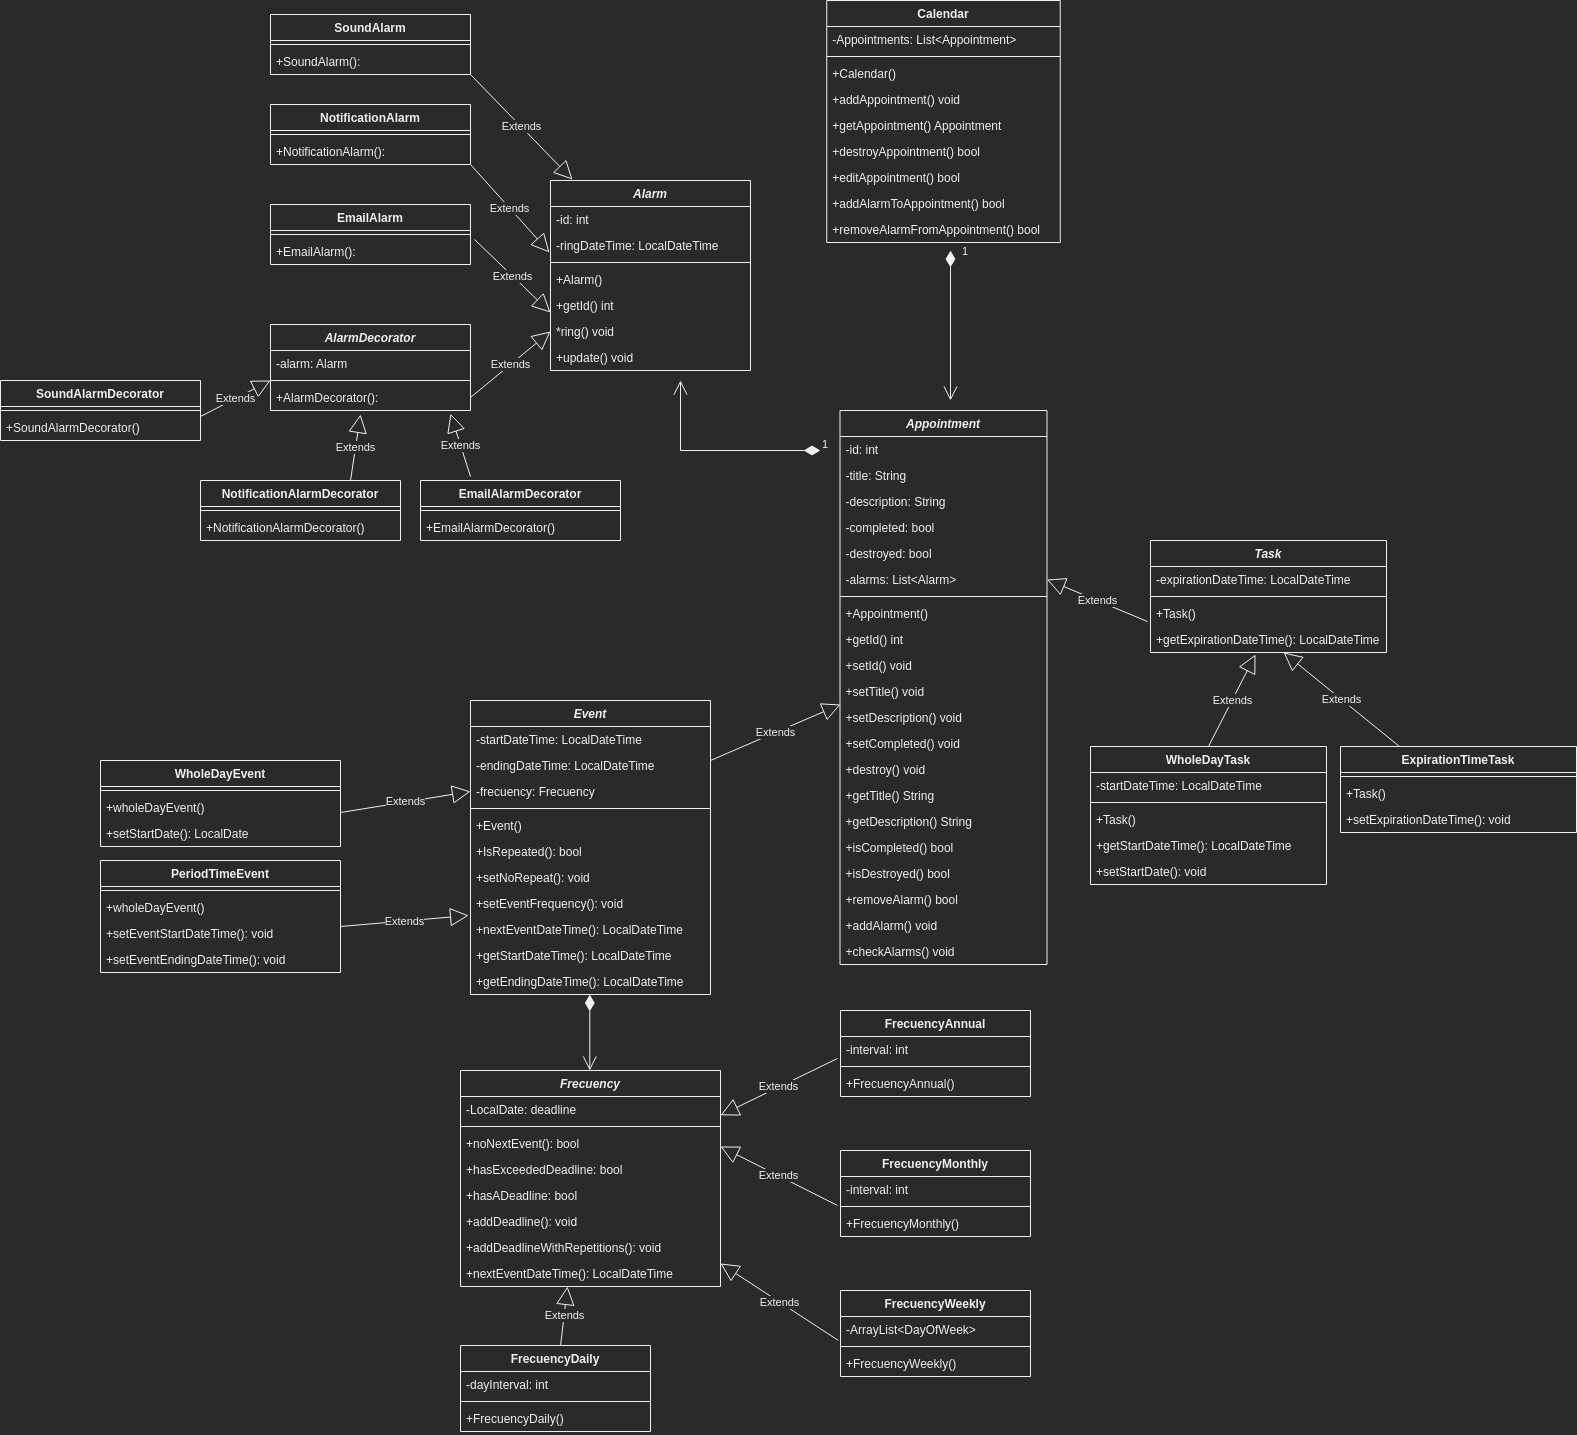
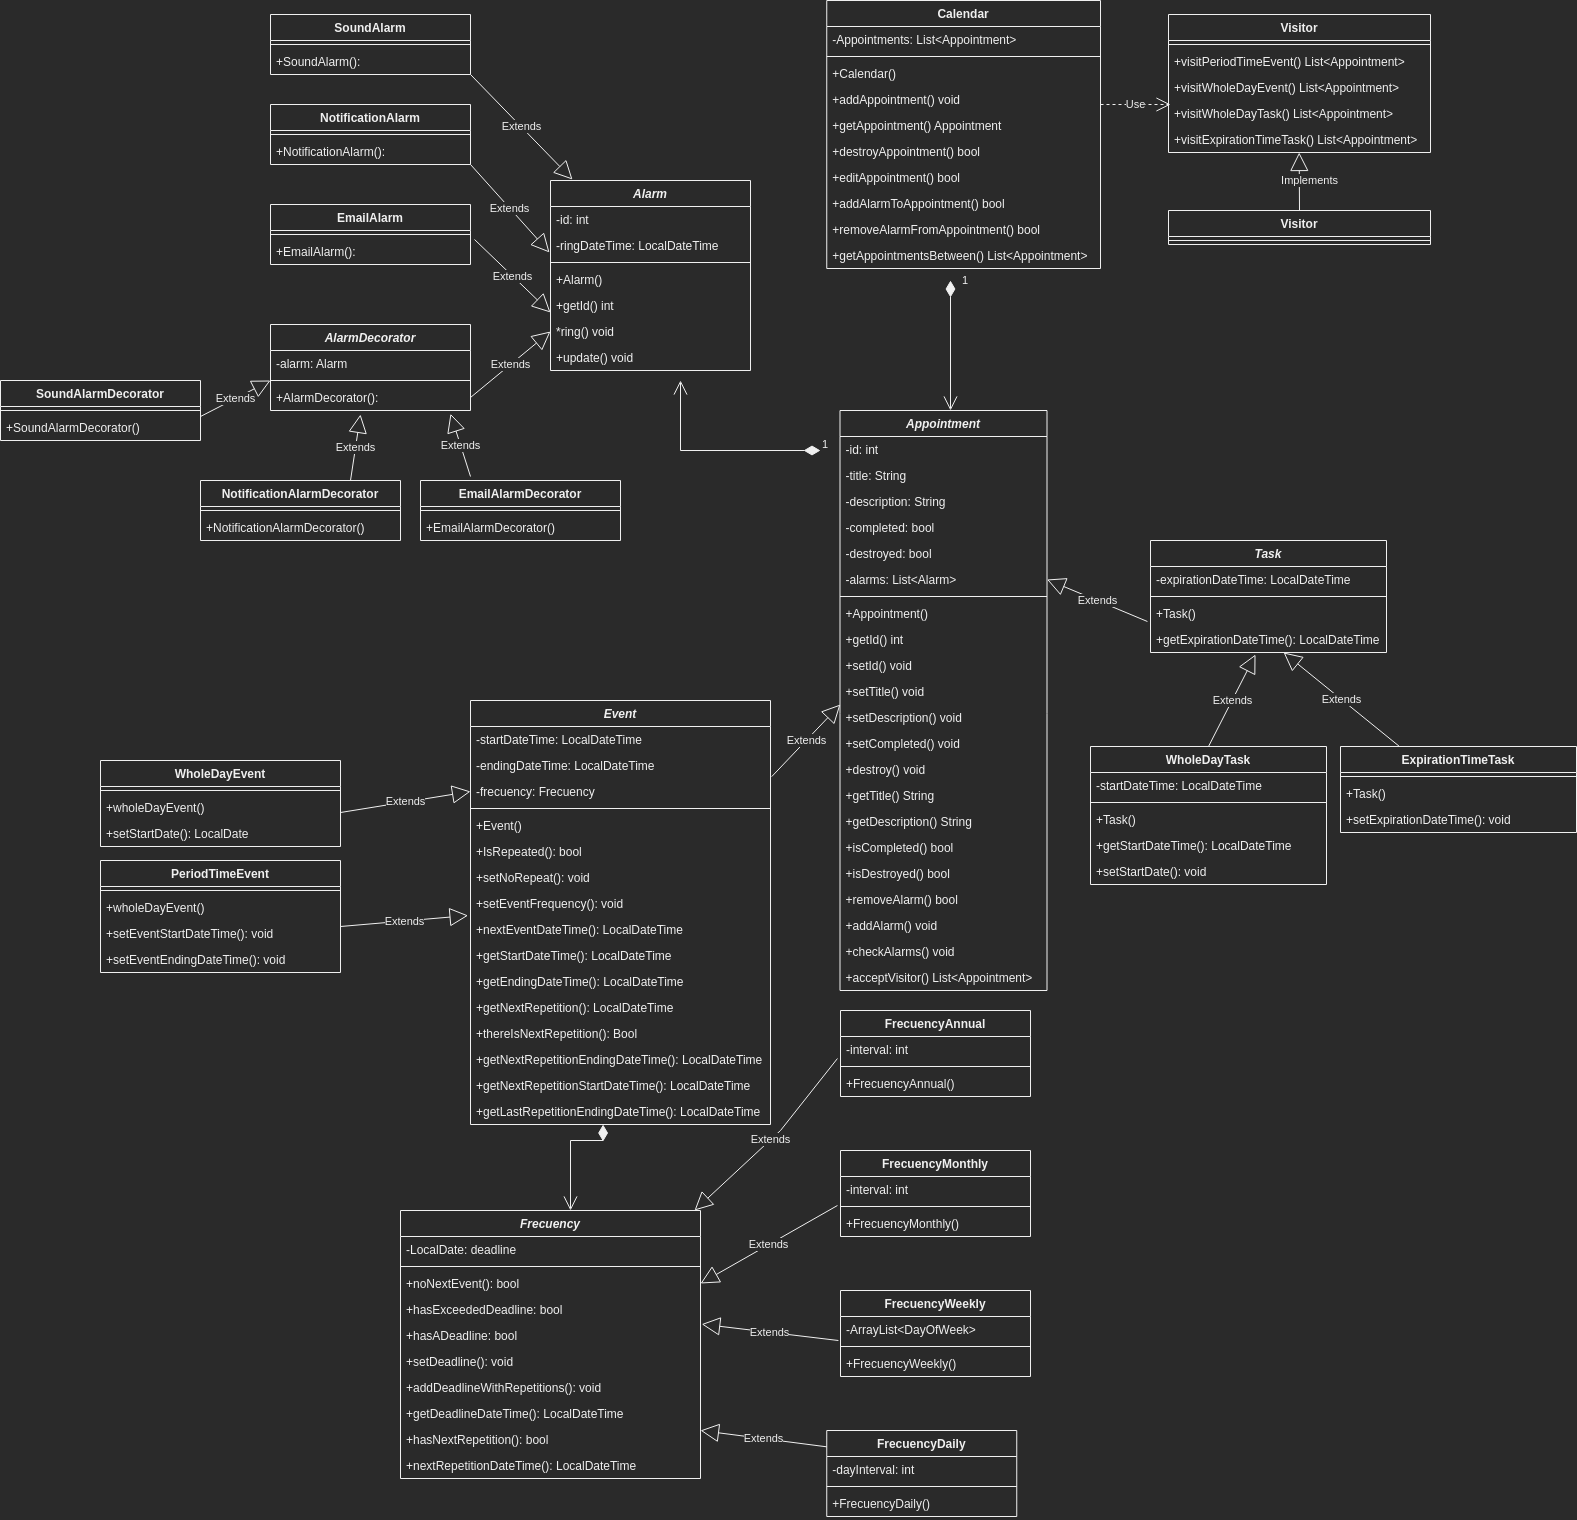
-Se actualizan los UMLs. -Se agrega UML de file_handler. -Renombre de identificadores.

diff --git a/src/test/java/org/calendar/frequency/FrequencyWeeklyTest.java b/src/test/java/org/calendar/frequency/FrequencyWeeklyTest.java
@@ -21,7 +21,7 @@ public class FrequencyWeeklyTest {
         LocalDateTime friday = LocalDateTime.of(2023, 4, 14, 10, 30);
         var frequency = new FrequencyWeekly(array, null);
 
-        LocalDateTime response = frequency.nextEventDateTime(wednesday);
+        LocalDateTime response = frequency.nextRepetitionDateTime(wednesday);
 
         assertEquals(friday, response);
     }
@@ -37,8 +37,8 @@ public class FrequencyWeeklyTest {
         LocalDateTime saturday = LocalDateTime.of(2023, 4, 15, 10, 30);
         var frequency = new FrequencyWeekly(array,null);
 
-        LocalDateTime response1 = frequency.nextEventDateTime(tuesday);
-        LocalDateTime response2 = frequency.nextEventDateTime(response1);
+        LocalDateTime response1 = frequency.nextRepetitionDateTime(tuesday);
+        LocalDateTime response2 = frequency.nextRepetitionDateTime(response1);
 
         assertEquals(response1, thursday);
         assertEquals(response2, saturday);
@@ -52,9 +52,9 @@ public class FrequencyWeeklyTest {
         array.add(DayOfWeek.WEDNESDAY);
         var frequency = new FrequencyWeekly(array, null);
 
-        LocalDateTime response1 = frequency.nextEventDateTime(LocalDateTime.of(2023, 4, 5, 10, 30));
+        LocalDateTime response1 = frequency.nextRepetitionDateTime(LocalDateTime.of(2023, 4, 5, 10, 30));
         assertEquals(wednesday1, response1);
-        LocalDateTime response2 = frequency.nextEventDateTime(response1);
+        LocalDateTime response2 = frequency.nextRepetitionDateTime(response1);
         assertEquals(wednesday2, response2);
     }
 }

diff --git a/src/main/java/org/calendar/event/Event.java b/src/main/java/org/calendar/event/Event.java
@@ -34,8 +34,8 @@ public abstract class Event extends Appointment {
     }
 
     //Post: Returns the next date and time of the event with respect to the date and time received, or null if there is no repetition or no next event.
-    public LocalDateTime getNextEventRegardDateTime(LocalDateTime date){
-        if(isRepeated()) return frequency.nextEventDateTime(date);
+    protected LocalDateTime getNextEventRegardDateTime(LocalDateTime date){
+        if(isRepeated()) return frequency.nextRepetitionDateTime(date);
         return null;
     }
 
@@ -77,7 +77,7 @@ public abstract class Event extends Appointment {
 
     //Post: Returns true if there is an event after the received date, false otherwise.
     public boolean thereIsNextRepetition(LocalDateTime date){
-        return this.frequency.hasNextDate(date);
+        return this.frequency.hasNextRepetition(date);
     }
 
     //Post: Returns the last repeated event s endingDateTime. If repetition is infinite, it will return null.
@@ -91,6 +91,6 @@ public abstract class Event extends Appointment {
         return this.frequency;
     }
 
-    //Post: returns from the next event of the current event.
+    //Post: returns from the next repetition of the current event.
     public abstract Event getNextRepetition();
 }

diff --git a/src/test/java/org/calendar/frequency/FrequencyDailyTest.java b/src/test/java/org/calendar/frequency/FrequencyDailyTest.java
@@ -19,7 +19,7 @@ public class FrequencyDailyTest {
 
         var frequency = new FrequencyDaily(interval, null);
 
-        LocalDateTime laterOfClass = frequency.nextEventDateTime(now);
+        LocalDateTime laterOfClass = frequency.nextRepetitionDateTime(now);
         assertEquals(later, laterOfClass);
     }
 
@@ -28,7 +28,7 @@ public class FrequencyDailyTest {
         LocalDateTime now = LocalDateTime.of(2023, 4, 20, 12, 30);
         int interval = 0;
         var frequency = new FrequencyDaily(interval, null);
-        LocalDateTime laterOfClass = frequency.nextEventDateTime(now);
+        LocalDateTime laterOfClass = frequency.nextRepetitionDateTime(now);
         assertEquals(laterOfClass, now);
     }
 
@@ -53,8 +53,8 @@ public class FrequencyDailyTest {
         LocalDateTime dateTest2 = LocalDateTime.of(2023, 4, 19,12,0,0);
         LocalDateTime dateTest3 = LocalDateTime.of(2023, 4, 20,12,0,0);
 
-        assertTrue(frequency.hasNextDate(dateTest1));
-        assertTrue(frequency.hasNextDate(dateTest2));
-        assertFalse(frequency.hasNextDate(dateTest3));
+        assertTrue(frequency.hasNextRepetition(dateTest1));
+        assertTrue(frequency.hasNextRepetition(dateTest2));
+        assertFalse(frequency.hasNextRepetition(dateTest3));
     }
 }

diff --git a/src/main/java/org/calendar/event/frequency/Frequency.java b/src/main/java/org/calendar/event/frequency/Frequency.java
@@ -32,7 +32,7 @@ public abstract class Frequency {
     //Post: Adds the deadline to the event, counting the number of repetitions.
     public void addDeadlineWithRepetitions(int repetitions, LocalDateTime date){
         for(int i = FIRST_REPETITION; i <= repetitions; i++){
-            date = this.nextEventDateTime(date);
+            date = this.nextRepetitionDateTime(date);
         }
 
         this.setDeadline(date.toLocalDate());
@@ -48,10 +48,10 @@ public abstract class Frequency {
     }
 
     //Post: returns true if there is a next date for the received date, false otherwise.
-    public boolean hasNextDate(LocalDateTime date) {
-        return this.nextEventDateTime(date) != null;
+    public boolean hasNextRepetition(LocalDateTime date) {
+        return this.nextRepetitionDateTime(date) != null;
     }
 
-    //Post: returns the next date with respect to the received date, or null if there is no next event.
-    public abstract LocalDateTime nextEventDateTime(LocalDateTime date);
+    //Post: returns the next repetition date with respect to the received date, or null if there is no next repetition.
+    public abstract LocalDateTime nextRepetitionDateTime(LocalDateTime date);
 }

diff --git a/src/test/java/org/calendar/alarms/EmailAlarmTest.java b/src/test/java/org/calendar/alarms/EmailAlarmTest.java
@@ -19,15 +19,13 @@ public class EmailAlarmTest{
     public void testUpdate() {
         var notRingTime = LocalDateTime.of(1000,1,31,12,0,0);
 
-        doNothing().when(emailAlarm).ring();
         emailAlarm.update(notRingTime);
-        verify(emailAlarm, times(0)).ring();
+        verify(emailAlarm, times(1)).ring();
     }
 
     //Tests ring method.
     @Test
     public void testRing() {
-        doNothing().when(emailAlarm).ring();
         emailAlarm.ring();
         verify(emailAlarm, times(1)).ring();
     }

diff --git a/src/test/java/org/calendar/frequency/FrequencyMonthlyTest.java b/src/test/java/org/calendar/frequency/FrequencyMonthlyTest.java
@@ -14,7 +14,7 @@ public class FrequencyMonthlyTest {
         LocalDateTime now = LocalDateTime.of(2023, 4, 30, 12, 30);
         LocalDateTime later = now.plus(1, ChronoUnit.MONTHS);
         var frequency = new FrequencyMonthly(null);
-        LocalDateTime laterOfClass = frequency.nextEventDateTime(now);
+        LocalDateTime laterOfClass = frequency.nextRepetitionDateTime(now);
         assertEquals(later, laterOfClass);
     }
 }

diff --git a/src/test/java/org/calendar/frequency/FrequencyAnnualTest.java b/src/test/java/org/calendar/frequency/FrequencyAnnualTest.java
@@ -14,7 +14,7 @@ public class FrequencyAnnualTest {
         LocalDateTime now = LocalDateTime.of(2023, 4, 30, 12, 30);
         LocalDateTime later = now.plus(1, ChronoUnit.YEARS);
         var frequency = new FrequencyAnnual(null);
-        LocalDateTime laterOfClass = frequency.nextEventDateTime(now);
+        LocalDateTime laterOfClass = frequency.nextRepetitionDateTime(now);
         assertEquals(later, laterOfClass);
     }
 }

diff --git a/src/main/java/org/calendar/event/frequency/FrequencyMonthly.java b/src/main/java/org/calendar/event/frequency/FrequencyMonthly.java
@@ -15,7 +15,7 @@ public class FrequencyMonthly extends Frequency {
 
     //@inheritDoc
     @Override
-    public LocalDateTime nextEventDateTime(LocalDateTime date){
+    public LocalDateTime nextRepetitionDateTime(LocalDateTime date){
         LocalDateTime dayTime = date.plus(this.monthsToAdd, ChronoUnit.MONTHS);
         LocalDate day = dayTime.toLocalDate();
 

diff --git a/src/main/java/org/calendar/event/frequency/FrequencyAnnual.java b/src/main/java/org/calendar/event/frequency/FrequencyAnnual.java
@@ -15,7 +15,7 @@ public class FrequencyAnnual extends Frequency{
 
     //@inheritDoc
     @Override
-    public LocalDateTime nextEventDateTime(LocalDateTime date){
+    public LocalDateTime nextRepetitionDateTime(LocalDateTime date){
         LocalDateTime dayTime = date.plus(this.yearsToAdd, ChronoUnit.YEARS);
         LocalDate day = dayTime.toLocalDate();
 

diff --git a/src/main/java/org/calendar/event/frequency/FrequencyDaily.java b/src/main/java/org/calendar/event/frequency/FrequencyDaily.java
@@ -13,7 +13,7 @@ public class FrequencyDaily extends Frequency {
     }
 
     @Override
-    public LocalDateTime nextEventDateTime(LocalDateTime date){
+    public LocalDateTime nextRepetitionDateTime(LocalDateTime date){
         LocalDateTime dayTime = date.plus(this.daysToAdd, ChronoUnit.DAYS);
         LocalDate day = dayTime.toLocalDate();
 

diff --git a/src/main/java/org/calendar/event/frequency/FrequencyWeekly.java b/src/main/java/org/calendar/event/frequency/FrequencyWeekly.java
@@ -39,7 +39,7 @@ public class FrequencyWeekly extends Frequency {
 
     //@inheritDoc
     @Override
-    public LocalDateTime nextEventDateTime(LocalDateTime date){
+    public LocalDateTime nextRepetitionDateTime(LocalDateTime date){
         DayOfWeek day = date.getDayOfWeek();
         int dayIndexInArray = this.weekDays.indexOf(day);
 

diff --git a/src/main/java/org/calendar/task/ExpirationTimeTask.java b/src/main/java/org/calendar/task/ExpirationTimeTask.java
@@ -16,7 +16,6 @@ public class ExpirationTimeTask extends Task {
         this.expirationDateTime = expirationDateTime;
     }
 
-
     //@inheritDoc
     @Override
     public List<Appointment> acceptVisitor(Visitor visitor, LocalDateTime firstDayTime, LocalDateTime secondDayTime) {
